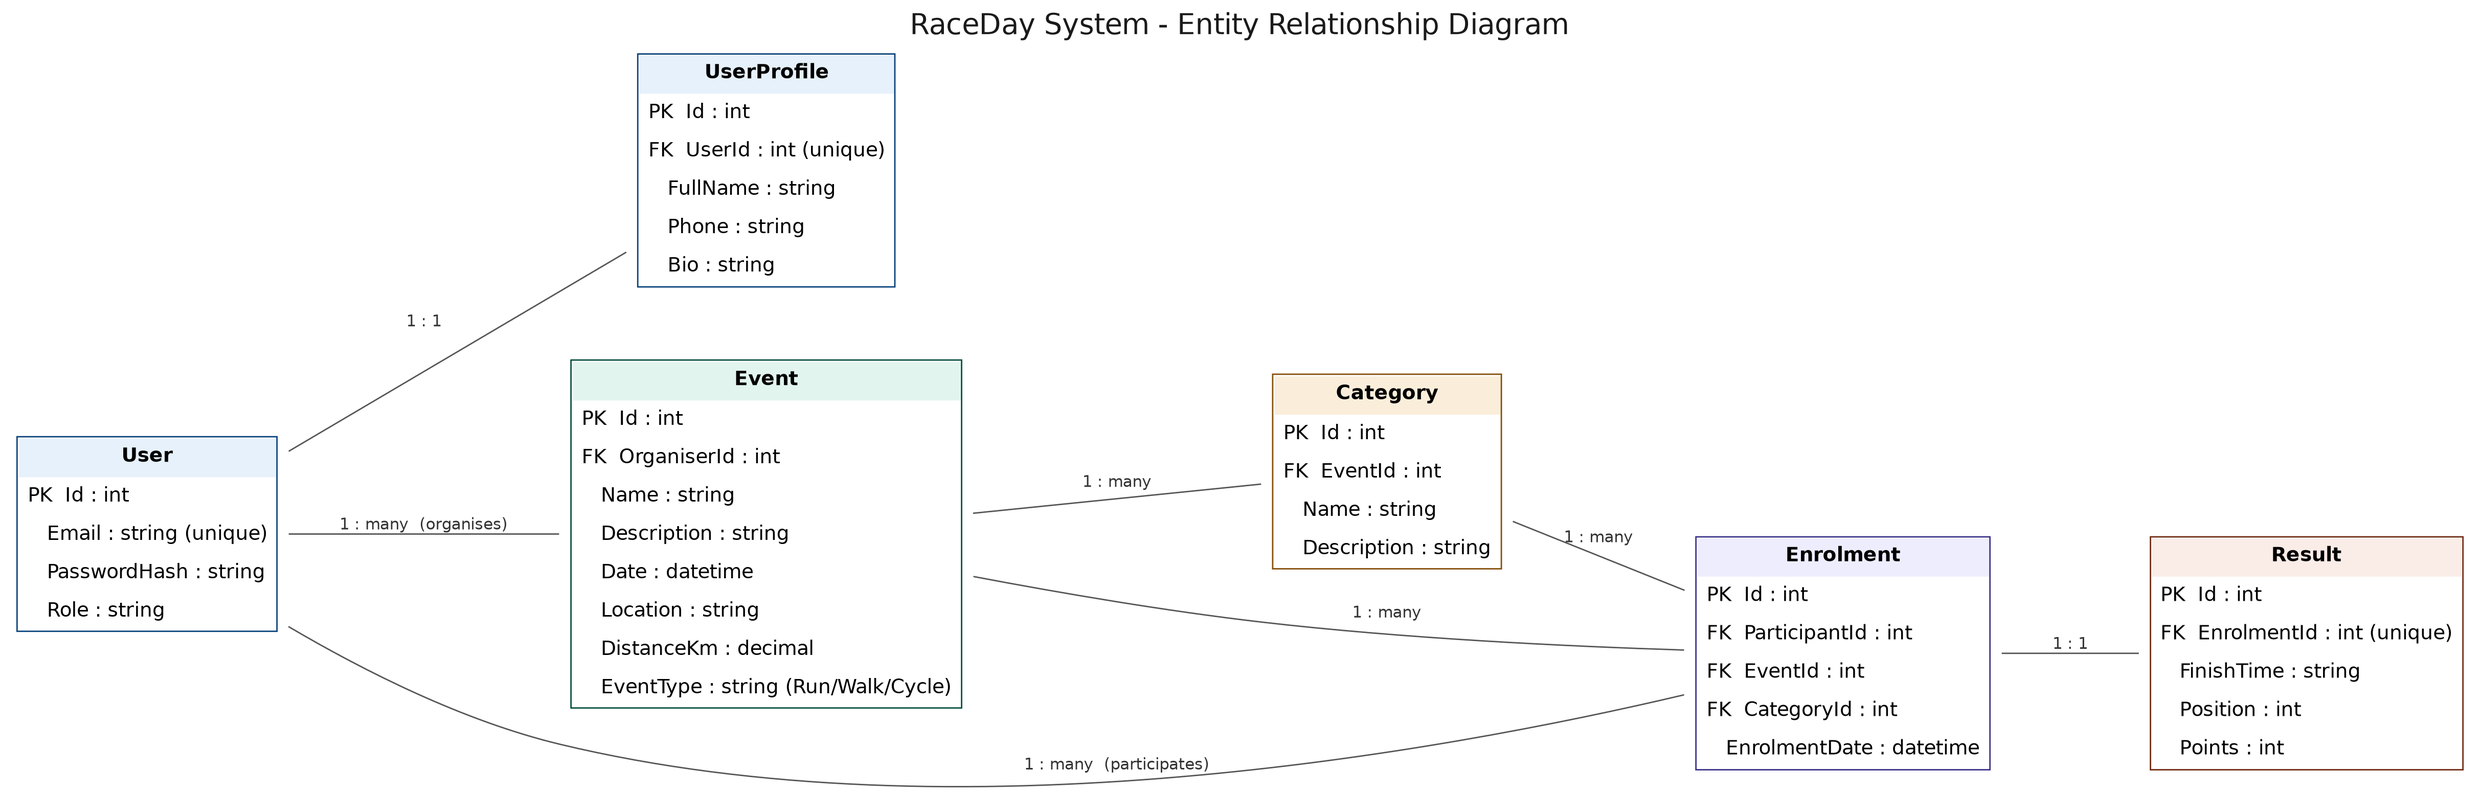
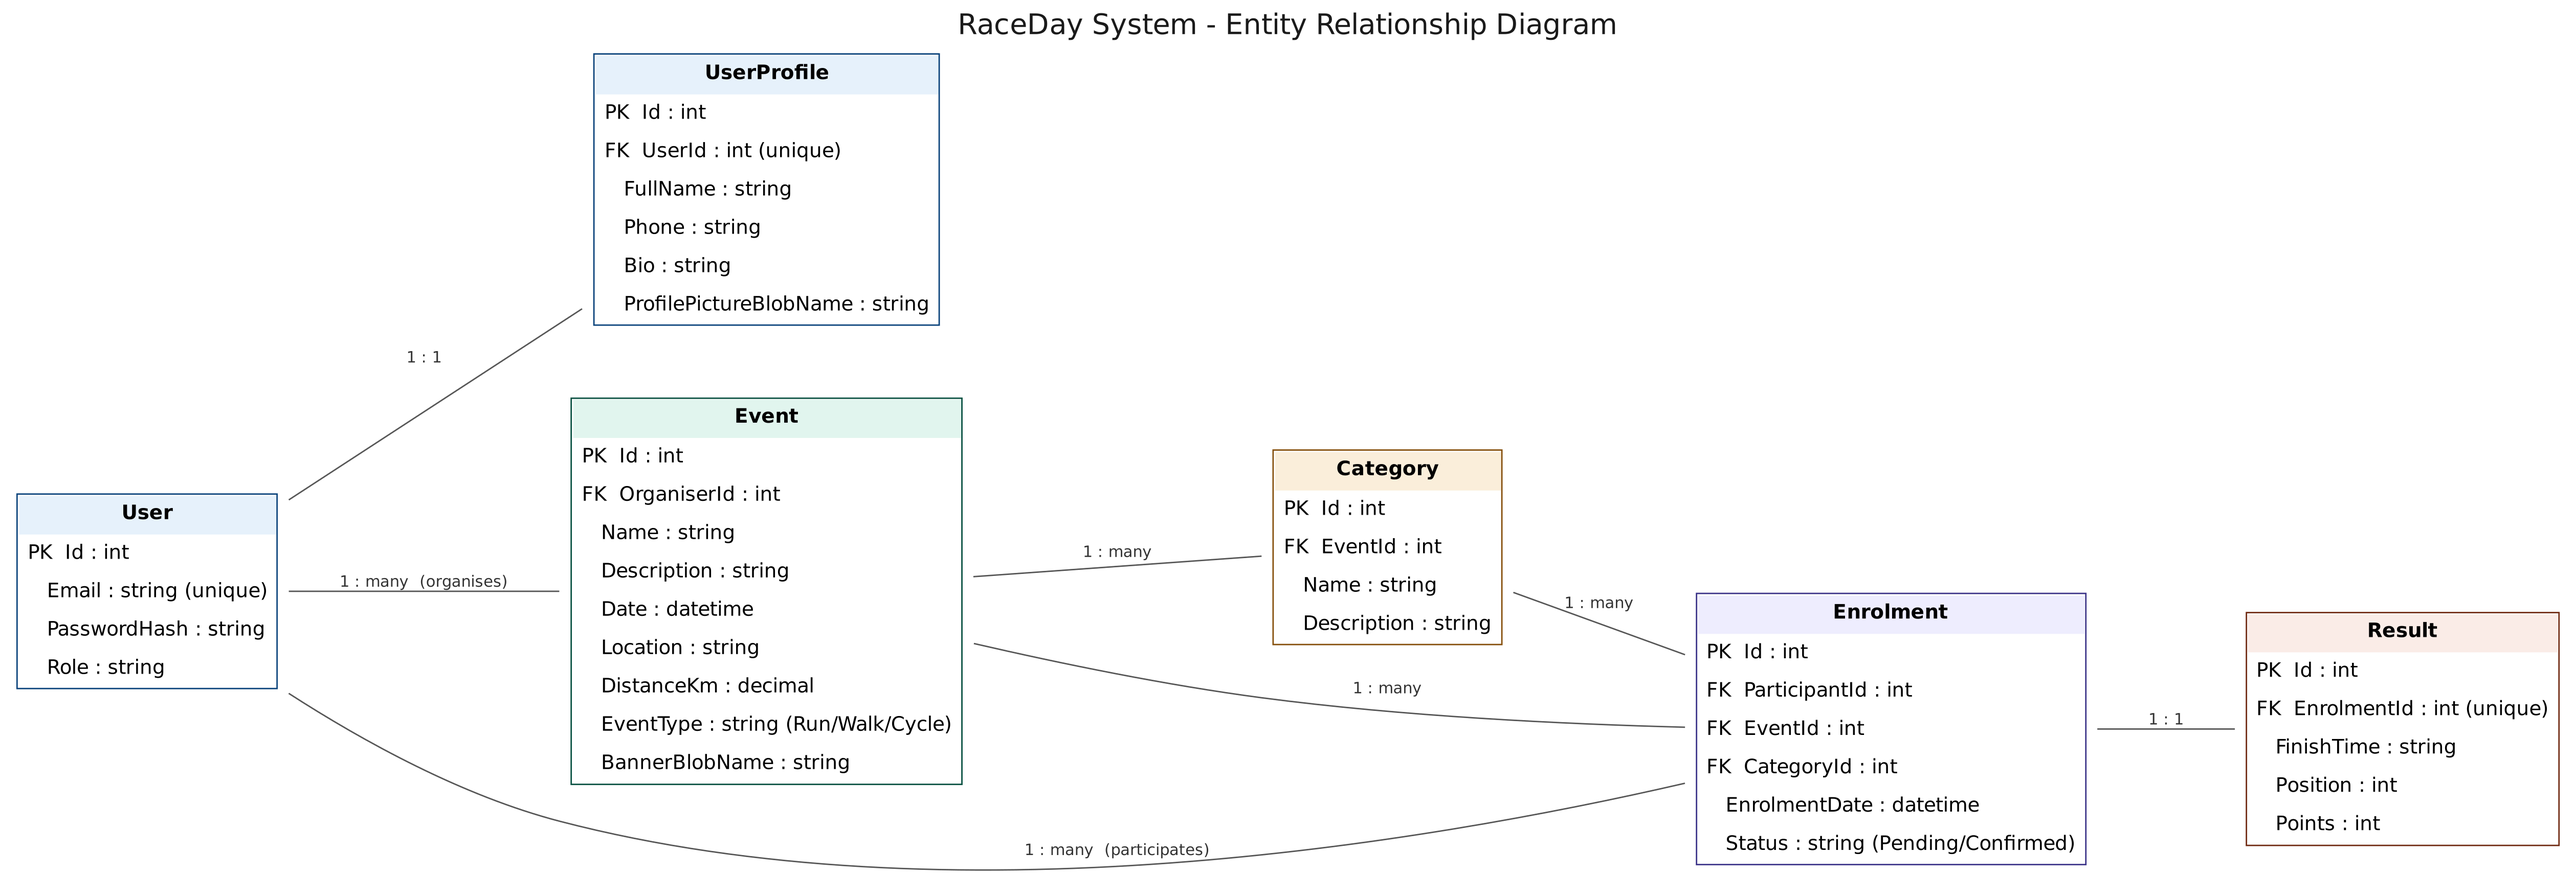
Part 3: update ERD and endpoint plan

diff --git a/docs/api-endpoint-plan.md b/docs/api-endpoint-plan.md
@@ -1,4 +1,4 @@
-# RaceDay System — API Endpoint Plan (revision 2)
+# RaceDay System — API Endpoint Plan (revision 3)
 
 Authentication uses **cookie-based sessions**: `POST /api/auth/login` creates a session cookie carrying the user's id and role, and every later request is authorised from that session. Passwords are stored as salted PBKDF2 hashes, never in plain text.
 
@@ -11,11 +11,16 @@ Standard error responses apply to every endpoint: **400** validation failure, **
 | POST | /api/auth/logout | End the current session | Authenticated | — | 204 No Content |
 | GET | /api/users/{id}/profile | View own profile | Authenticated (self) | — | 200 OK + profile. 403 if {id} is not the caller |
 | PUT | /api/users/{id}/profile | Update own profile | Authenticated (self) | FullName, Phone, Bio | 200 OK + updated profile |
-| GET | /api/events | List all events (optional `?type=Run\|Walk\|Cycle` filter) | Public | — | 200 OK + list of events |
+| POST | /api/users/{id}/profile/picture | Upload or replace own profile picture (stored in Azure Blob Storage by the API) | Authenticated (self) | multipart/form-data, field `file` (JPG/PNG/GIF/WebP, max 5 MB) | 200 OK + profile with ProfilePictureUrl. 400 if not an image |
+| GET | /api/users/{id}/profile/picture | Get a profile picture | Authenticated | — | 200 OK + image. 404 if none |
+| GET | /api/events | List events. Optional filters: `type` (Run/Walk/Cycle), `search` (name or location), `minDistanceKm`, `maxDistanceKm`, `upcomingOnly` | Public | — | 200 OK + list of events (each with a BannerUrl when one exists) |
+| GET | /api/events/mine | List the Organiser's own events with the number of enrolments for each (dashboard) | Organiser | — | 200 OK + list of events with EnrolmentCount |
 | GET | /api/events/{id} | Get one event's details | Public | — | 200 OK + event. 404 if missing |
 | POST | /api/events | Create a new event | Organiser | Name, Description, Date, Location, DistanceKm, EventType (Run/Walk/Cycle) | 201 Created + event |
 | PUT | /api/events/{id} | Update an event | Organiser (owner) | Name, Description, Date, Location, DistanceKm, EventType | 200 OK + updated event |
 | DELETE | /api/events/{id} | Delete an event | Organiser (owner) | — | 204 No Content |
+| POST | /api/events/{id}/banner | Upload or replace the event banner image (stored in Azure Blob Storage by the API) | Organiser (owner) | multipart/form-data, field `file` (JPG/PNG/GIF/WebP, max 5 MB) | 200 OK + event with BannerUrl. 400 if not an image |
+| GET | /api/events/{id}/banner | Get the event banner image | Public | — | 200 OK + image. 404 if none |
 | GET | /api/events/{eventId}/categories | List categories for an event | Public | — | 200 OK + list |
 | POST | /api/events/{eventId}/categories | Add a category to an event | Organiser (owner of event) | Name, Description | 201 Created + category |
 | PUT | /api/categories/{id} | Update a category | Organiser (owner of event) | Name, Description | 200 OK + updated category |
@@ -23,10 +28,11 @@ Standard error responses apply to every endpoint: **400** validation failure, **
 | POST | /api/enrolments | Enrol in an event by selecting a category | Participant | EventId, CategoryId | 201 Created + enrolment. 400 if the category is not part of the event, 409 if already enrolled |
 | GET | /api/enrolments/me | View own enrolments | Participant | — | 200 OK + list |
 | GET | /api/events/{eventId}/enrolments | View all enrolments for an event | Organiser (owner of event) | — | 200 OK + list |
+| PUT | /api/enrolments/{id}/status | Confirm an enrolment or set it back to Pending | Organiser (owner of event) | Status (Pending/Confirmed) | 200 OK + updated enrolment. 400 if the status is invalid |
 | DELETE | /api/enrolments/{id} | Cancel own enrolment | Participant (owner) | — | 204 No Content |
 | POST | /api/results | Capture a result for an enrolment | Organiser (owner of event) | EnrolmentId, FinishTime, Position, Points (optional) | 201 Created + result. 409 if a result already exists |
 | PUT | /api/results/{id} | Update a result | Organiser (owner of event) | FinishTime, Position, Points (optional) | 200 OK + updated result |
-| GET | /api/results/me | View own results | Participant | — | 200 OK + list |
+| GET | /api/results/me | View own results: event name and date, category, finish time, position and total finishers (for "47th of 312") | Participant | — | 200 OK + list |
 | GET | /api/events/{eventId}/results | View all results for an event | Authenticated | — | 200 OK + list |
 
 ## Changes since revision 1
@@ -39,6 +45,16 @@ Revision 1 was written before the Part 2 requirements were fully mapped. Revisio
 4. **Organiser registration is protected by an invite code.** Letting anyone self-select Organiser would defeat role-based access. Participants register freely.
 5. **Results for an event require login.** Revision 1 listed this as Public/Organiser. Results belong to named participants, so any authenticated user may view them.
 6. **Error responses documented**, including 409 for duplicate enrolments and a unique constraint on (Participant, Event) in the database.
+
+## Changes in revision 3 (Part 3: MVC front end, Azure Blob Storage)
+
+The Part 3 brief adds requirements the earlier plan did not cover. The API was extended, and the ERD and SQL script were updated to match:
+
+1. **Enrolment status.** Enrolments now carry a `Status` (Pending or Confirmed). New enrolments start as Pending, and the Organiser who owns the event confirms them with `PUT /api/enrolments/{id}/status`.
+2. **Image uploads through the API.** The MVC application must never talk to Azure, so the API stores images in Azure Blob Storage and serves them back. `Event.BannerBlobName` and `UserProfile.ProfilePictureBlobName` hold the blob names, and the new upload and download endpoints are listed above. The container is private, so images are only reachable through the API.
+3. **Richer results.** Results now include the event date, the category and the total number of finishers, so the Participant's page can show "47th out of 312".
+4. **Organiser dashboard.** `GET /api/events/mine` returns the Organiser's events with enrolment counts.
+5. **Event filtering.** `GET /api/events` gained search, distance and upcoming-only filters for the Participant home page.
 
 ## Assumptions
 
